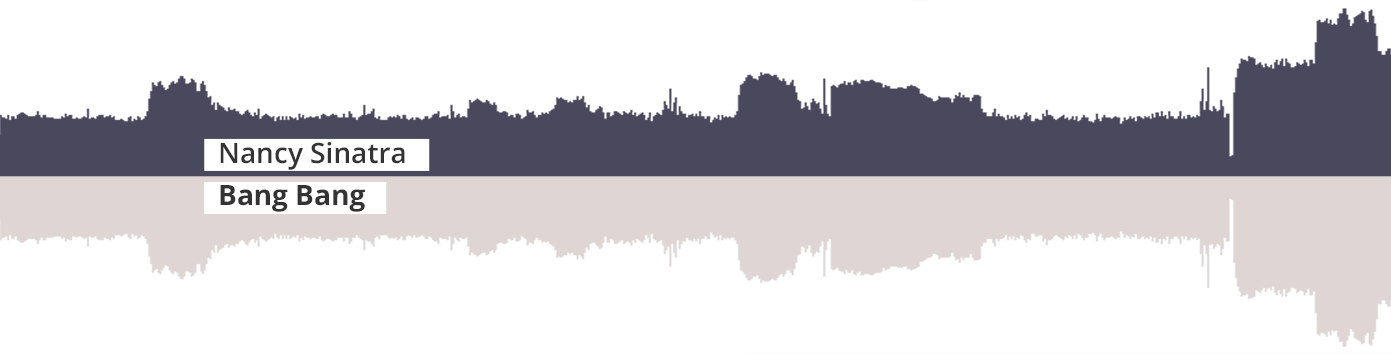
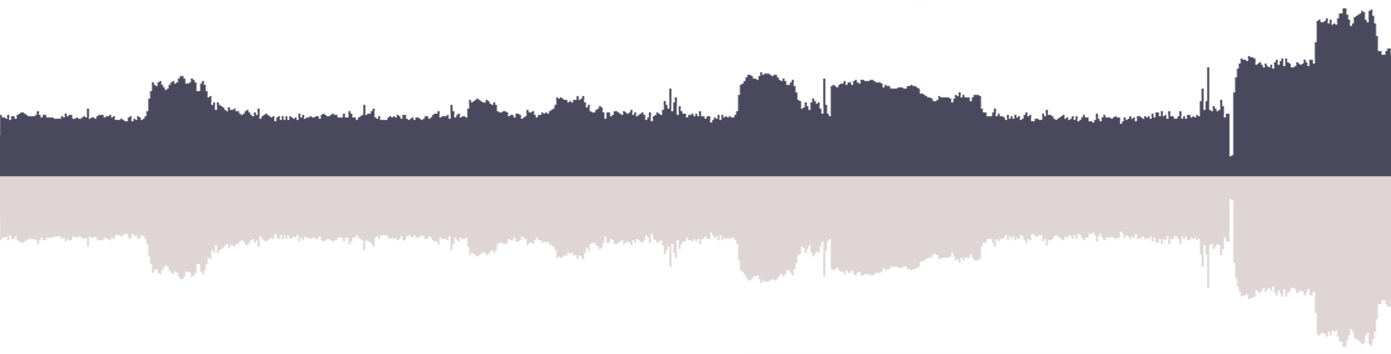
added music title

Changed region(s): [[0.1237, 0.3729, 0.3091, 0.6215]]

diff --git a/public/js/controllers/HighlightsController.js b/public/js/controllers/HighlightsController.js
@@ -40,7 +40,7 @@ export default React.createClass({
       activity: [],
       user: {},
       locations: [],
-      track: {}
+      track: null
     };
   },
 
@@ -105,7 +105,12 @@ export default React.createClass({
             <div className="rotate">
                 <img src="img/img_soundcloud_wave2.png" alt="" />
                 <div className="play-button" onClick={ this._playTrack.bind(this) }></div>
-                { renderTrack(this.state.track) }
+                { this.state.track && renderTrack(this.state.track) }
+                { this.state.track &&
+                  <div className="track-name">
+                    {this.state.track.title}
+                  </div>
+                }
             </div>
             </div>
           </div>

diff --git a/public/scss/main.scss b/public/scss/main.scss
@@ -21,3 +21,20 @@ $modules: ("global");
 @import "_visibility";
 @import "_background";
 // @import "_labels";
+
+.track-name {
+  text-align: left;
+  position: absolute;
+  left: 133px;
+  top: 95px;
+  font-size: 15px;
+  font-weight: bold;
+  background-color: #fff;
+  max-width: 30%;
+  padding-left: 2px;
+  padding-right: 2px;
+  text-overflow: ellipsis;
+  overflow: hidden;
+  white-space: nowrap;
+  line-height: 15px;
+}
